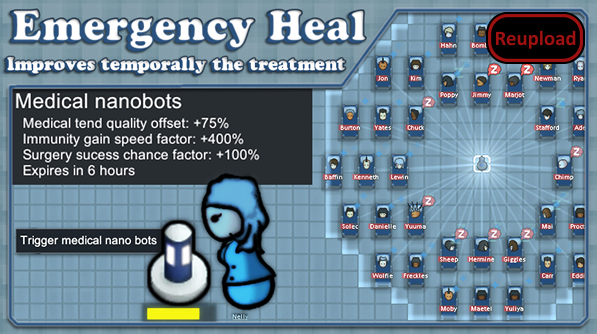
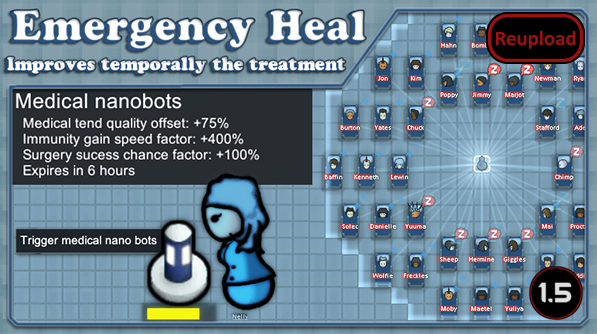
Mod updated for 1.5 and passed autotests

Changed region(s): [[0.8744, 0.7784, 0.995, 0.9581]]

diff --git a/README.md b/README.md
@@ -57,11 +57,13 @@ This mod add a miracle! A build that can be actived to improve temporally treatm
 
 -  See if the the error persists if you just have this mod and its requirements active.
 -  If not, try adding your other mods until it happens again.
--  Post your error-log using https://steamcommunity.com/workshop/filedetails/?id=818773962]HugsLib and command Ctrl+F12
+-  Post your error-log using https://steamcommunity.com/workshop/filedetails/?id=818773962]HugsLib or the standalone https://steamcommunity.com/sharedfiles/filedetails/?id=2873415404]Uploader and command Ctrl+F12
 -  For best support, please use the Discord-channel for error-reporting.
 -  Do not report errors by making a discussion-thread, I get no notification of that.
 -  If you have the solution for a problem, please post it to the GitHub repository.
+-  Use https://github.com/RimSort/RimSort/releases/latest]RimSort to sort your mods
 
 
 
+https://steamcommunity.com/sharedfiles/filedetails/changelog/2390002900]![Image](https://img.shields.io/github/v/release/emipa606/EmergencyHeal?label=latest%20version&style=plastic&color=9f1111&labelColor=black)
 
